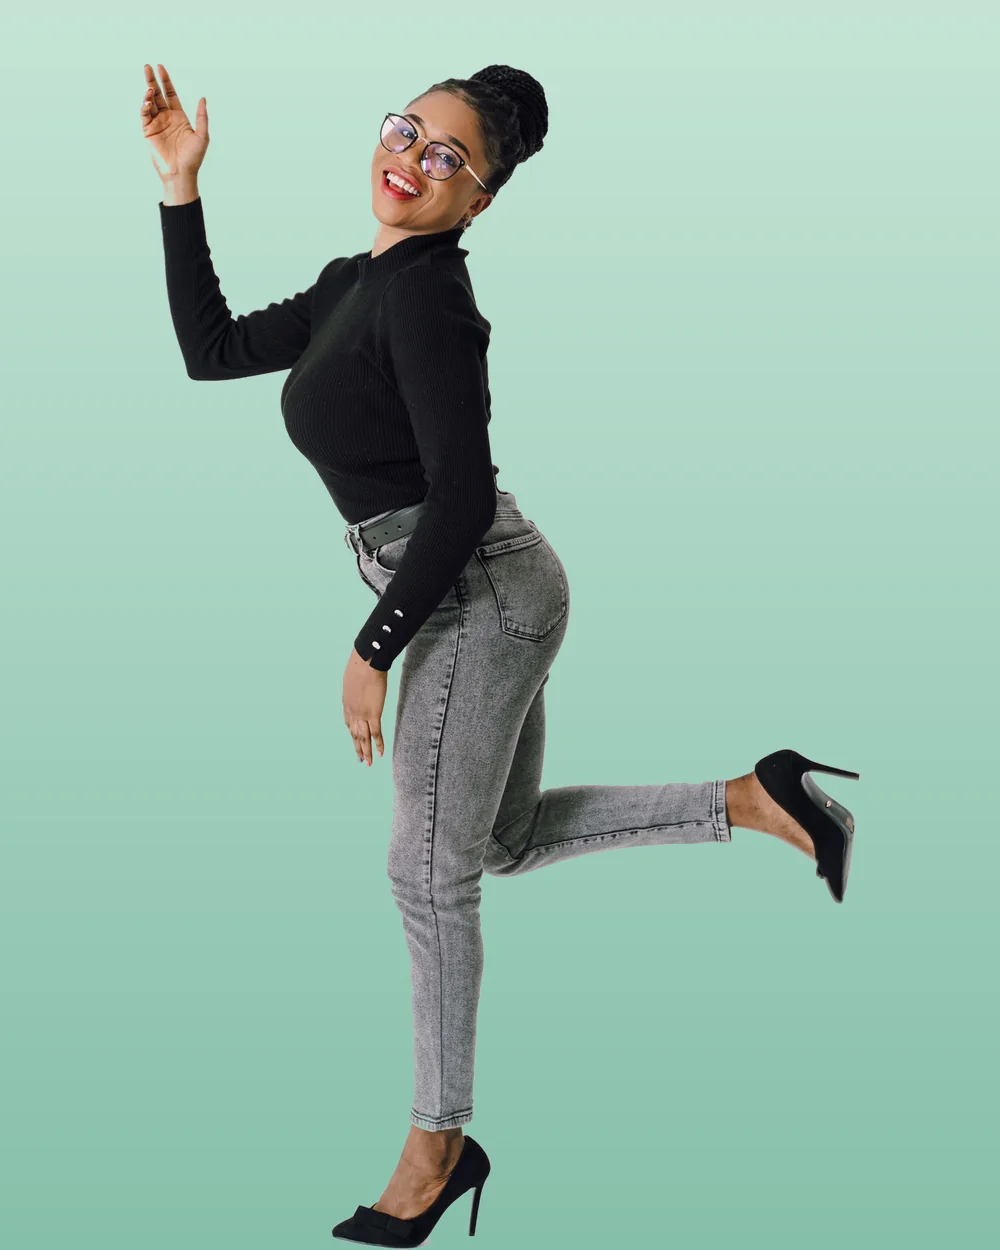
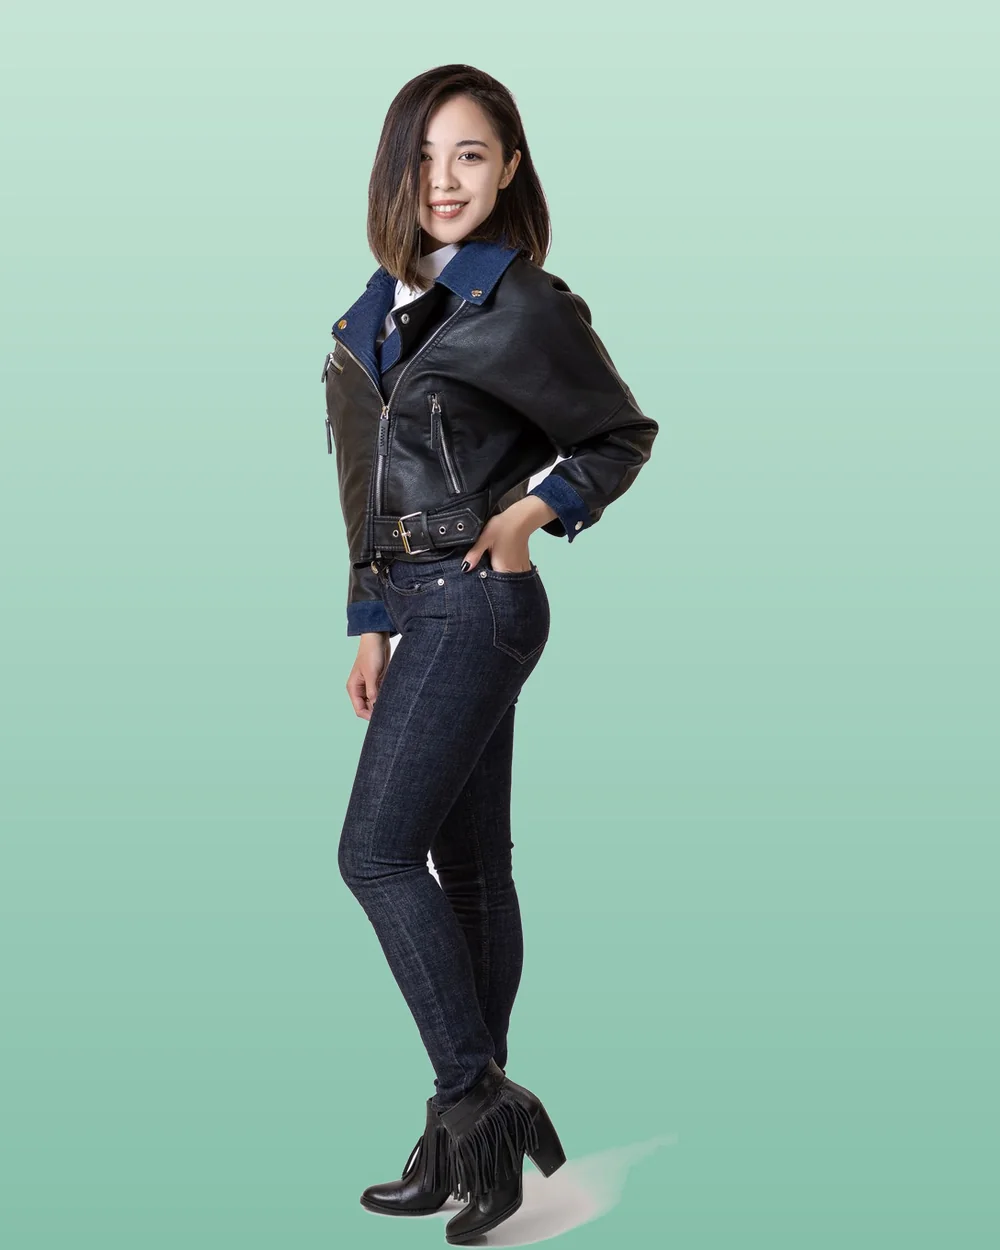
Dentist model swap; define the homepage dress edge against the mint band
- New dentist-page model (Pexels 6211616). Dark leather jacket and indigo jeans key cleanly and hold their edge against mint, unlike the pale-clothing plates that kept eroding
- Homepage figure gains a three-stage shadow stack: a 1px silhouette trace, a short lift, and the existing ground shadow. Her dress is a near-white mint on a mint band, so tone alone could never separate them — the tight trace gives the hem an actual edge
- Keyer note recorded: candidate plates whose clothing overlaps the cast-shadow distance range (tan top p5=34 vs shadow max=58) cannot be separated by any global threshold, so they were rejected rather than tuned

Changed region(s): [[0.124, 0.0312, 0.868, 1.0]]

diff --git a/style.css b/style.css
@@ -1769,8 +1769,14 @@ footer {
   max-width: 100%;
   object-fit: contain;
   object-position: bottom center;
-  /* Grounds the cut-out on the mint field so it doesn't look pasted on. */
-  filter: drop-shadow(0 26px 38px rgba(24, 62, 55, 0.22));
+  /* Three stacked shadows, each doing a different job. Her dress is a near-white
+     mint on a mint band, so tone alone never separates them — the first, very
+     tight shadow traces the silhouette and gives the hem a real edge. The second
+     lifts her off the field, the third grounds her. */
+  filter:
+    drop-shadow(0 0 1px rgba(16, 54, 46, 0.62))
+    drop-shadow(0 3px 7px rgba(16, 54, 46, 0.3))
+    drop-shadow(0 26px 38px rgba(24, 62, 55, 0.22));
 }
 /* No photo supplied yet → hide the slot and tighten the stage so the
    typographic hero still reads as intentional rather than half-empty. */

diff --git a/photos/CREDITS.md b/photos/CREDITS.md
@@ -37,7 +37,7 @@ from the heroes for that reason.
 
 ## Dentist-page model — `model-dentist.webp`
 
-- **Source:** Pexels — https://www.pexels.com/photo/woman-in-eyeglasses-smiling-and-posing-16385779/
+- **Source:** Pexels — https://www.pexels.com/photo/studio-portrait-of-a-smiling-woman-in-a-leather-jacket-6211616/
 - **Licence:** Pexels Licence — free for commercial use, no attribution required.
 - Deliberately a different person from the homepage model so the two surfaces
   don't read as the same page.
